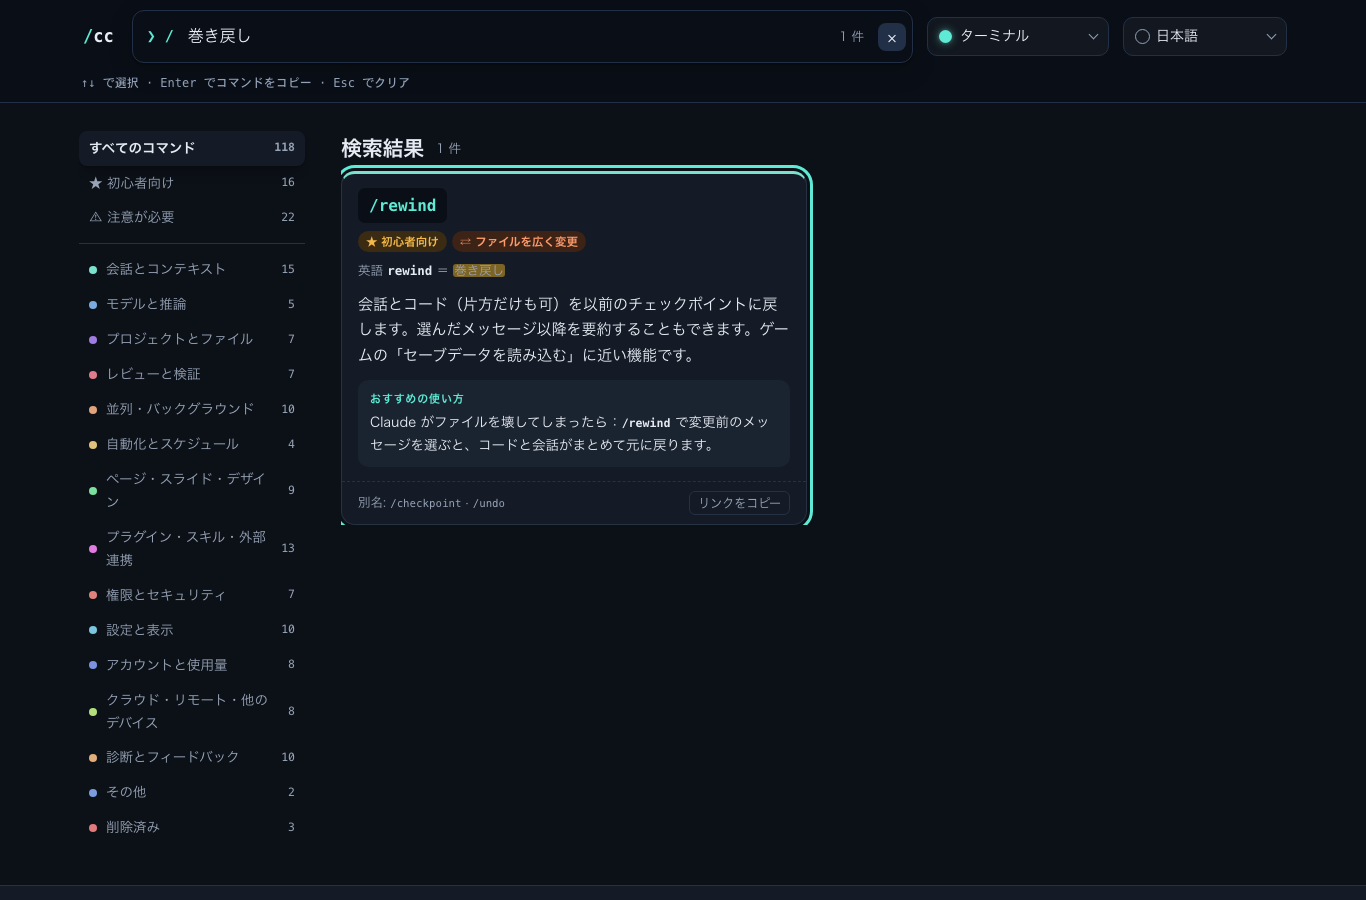
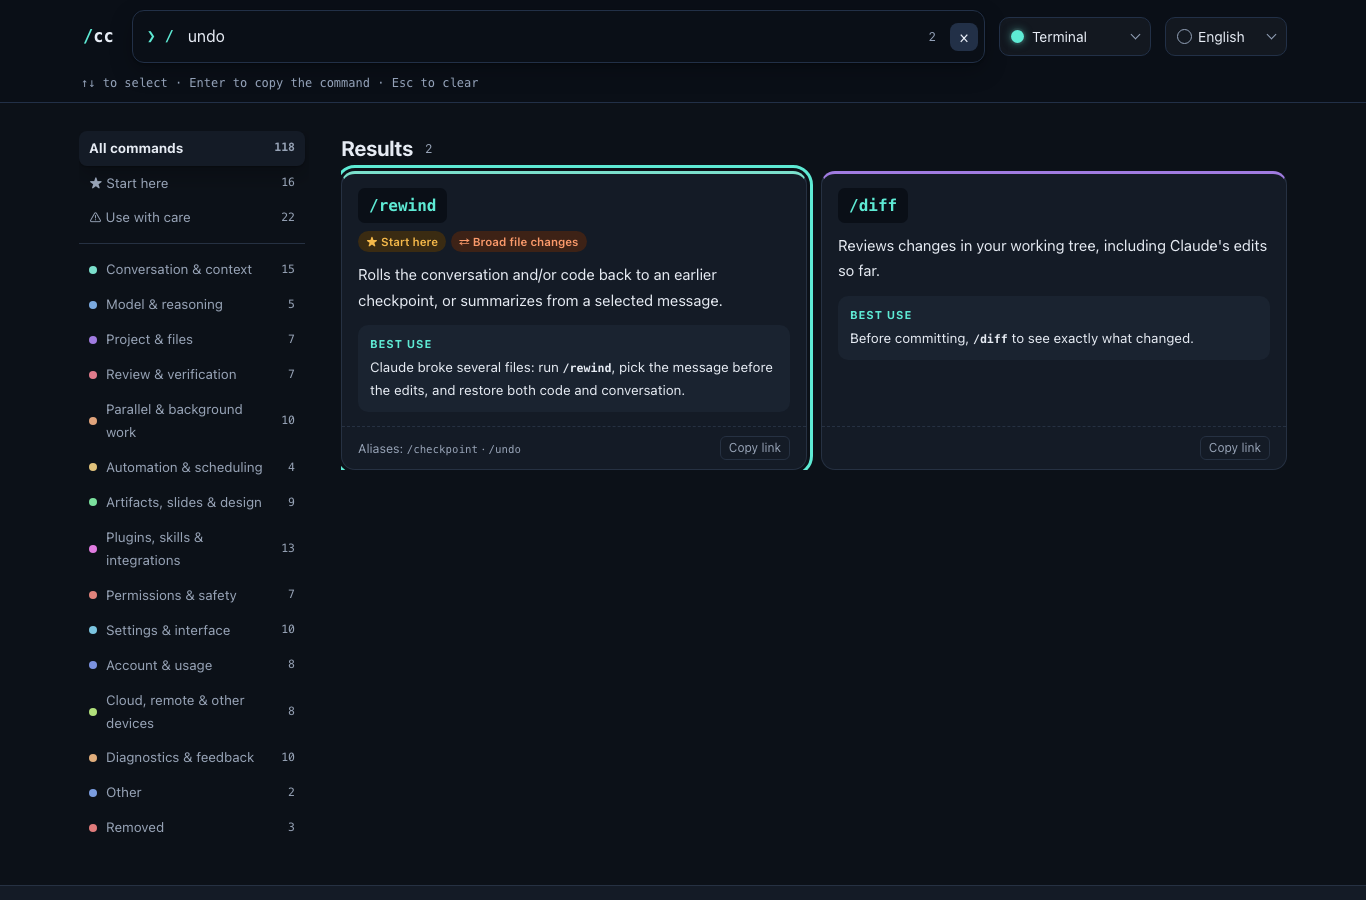
Add a live preview section with English screenshots
- ?theme= and ?lang= open the page in a given theme or language
  (validated; the remembered choice is used otherwise)
- README screenshots are English: default and Matrix themes side by
  side, each linking to the live page in that theme; the Matrix shot
  freezes a real rain frame
- Matrix rain fades out further from the headline

diff --git a/docs/index.html b/docs/index.html
@@ -2,7 +2,7 @@
 <html lang="en">
 <meta charset="utf-8">
 <meta name="viewport" content="width=device-width, initial-scale=1, viewport-fit=cover">
-<meta http-equiv="Content-Security-Policy" content="default-src 'none'; img-src 'self' data:; style-src 'sha256-wa4ndhqyFsvhTPBhABV0ZMXchThqM+fpSL2kvF4cgQc='; script-src 'sha256-7Mek3hGF+LeWd/slI4I7RhNVz67ZAEivcEj/lJPcTtQ=' 'sha256-vkdrupvUsdu28b80S5N36RX+rAbJ4L8iVFb8WBA/WFo='; base-uri 'none'; form-action 'none'">
+<meta http-equiv="Content-Security-Policy" content="default-src 'none'; img-src 'self' data:; style-src 'sha256-Lcz2R4DNVkiOH48GbXVjCDrKP1FXoVfJAyJnwvHvNeU='; script-src 'sha256-zTDMMkraTaLb462FBXh+FHGOZWeWPiTN15ggG/t3Yp8=' 'sha256-R2h1ZrjmBVAey/Nb9AkvsavFAxp/dXw3NjghyEOrn8A='; base-uri 'none'; form-action 'none'">
 <meta property="og:type" content="website">
 <meta property="og:title" content="Claude Code Commands · English / 日本語 / 简体中文 / 繁體中文 / 한국어 / Русский / Español">
 <meta property="og:description" content="Every Claude Code slash command explained in 7 languages: English / 日本語 / 简体中文 / 繁體中文 / 한국어 / Русский / Español. Unofficial.">
@@ -133,7 +133,7 @@
   --accent:#f5c46a; --accent-ink:#1d1406; --accent-soft:#2e2615;
   --hero:#070a12; --hero-2:#0f1524; --hero-line:#1f2940; --hero-ink:#eef1f7; --hero-muted:#97a1b7;
   --phos:#f5c46a; --phos-ink:#1d1406; --phos-soft:rgba(245,196,106,.12); --phos-glow:rgba(245,196,106,.12)}
-.rain{position:absolute;inset:0;width:100%;height:100%;opacity:.45;pointer-events:none;mask-image:linear-gradient(90deg,transparent,#000 35%,#000);-webkit-mask-image:linear-gradient(90deg,transparent,#000 35%,#000)}
+.rain{position:absolute;inset:0;width:100%;height:100%;opacity:.45;pointer-events:none;mask-image:linear-gradient(90deg,transparent 25%,#000 62%,#000);-webkit-mask-image:linear-gradient(90deg,transparent 25%,#000 62%,#000)}
 
 .h0{--h:168}.h1{--h:212}.h2{--h:262}.h3{--h:350}.h4{--h:24}.h5{--h:42}.h6{--h:140}.h7{--h:300}
 .h8{--h:4}.h9{--h:196}.h10{--h:226}.h11{--h:88}.h12{--h:30}.h13{--h:220}.h14{--h:0}
@@ -326,7 +326,7 @@ footer a{color:var(--accent);word-break:break-all}
 .noscript{background:var(--r-perms-bg);color:var(--r-perms);padding:12px 16px;border-radius:8px;margin-top:16px}
 @media (prefers-reduced-motion:reduce){html{scroll-behavior:auto}.caret{animation:none}.card,.scen,.toast{transition:none}.card:hover,.scen:hover{transform:none}}
 </style>
-<script>try{var s=localStorage.getItem("skin");if(/^(cyberpunk|matrix|midnight|graphite|indigo|ocean|ember|rose|mono|paper|frost)$/.test(s))document.documentElement.setAttribute("data-skin",s)}catch(e){}</script>
+<script>(function(){var ok=/^(cyberpunk|matrix|midnight|graphite|indigo|ocean|ember|rose|mono|paper|frost)$/,s=null;try{s=new URLSearchParams(location.search).get("theme")}catch(e){}if(!s||!(ok.test(s)||s==="terminal")){try{s=localStorage.getItem("skin")}catch(e){}}if(ok.test(s))document.documentElement.setAttribute("data-skin",s)})()</script>
 
 <div class="bar" id="bar">
   <div class="wrap bar-row">
@@ -429,6 +429,7 @@ const TARGET = HASH[2] && CMDS.find(c => slug(c) === HASH[2]);
 
 function pickLang(){
   if (HASH[1]) return HASH[1];
+  try { const q = new URLSearchParams(location.search).get("lang"); if (LANGS.includes(q)) return q; } catch(e) {}
   // A link's #en/#ja/#zh or the visitor's last choice wins; otherwise English.
   try { const s = localStorage.getItem("lang"); if (LANGS.includes(s)) return s; } catch(e) {}
   return "en";

diff --git a/site/template.html b/site/template.html
@@ -123,7 +123,7 @@
   --accent:#f5c46a; --accent-ink:#1d1406; --accent-soft:#2e2615;
   --hero:#070a12; --hero-2:#0f1524; --hero-line:#1f2940; --hero-ink:#eef1f7; --hero-muted:#97a1b7;
   --phos:#f5c46a; --phos-ink:#1d1406; --phos-soft:rgba(245,196,106,.12); --phos-glow:rgba(245,196,106,.12)}
-.rain{position:absolute;inset:0;width:100%;height:100%;opacity:.45;pointer-events:none;mask-image:linear-gradient(90deg,transparent,#000 35%,#000);-webkit-mask-image:linear-gradient(90deg,transparent,#000 35%,#000)}
+.rain{position:absolute;inset:0;width:100%;height:100%;opacity:.45;pointer-events:none;mask-image:linear-gradient(90deg,transparent 25%,#000 62%,#000);-webkit-mask-image:linear-gradient(90deg,transparent 25%,#000 62%,#000)}
 
 .h0{--h:168}.h1{--h:212}.h2{--h:262}.h3{--h:350}.h4{--h:24}.h5{--h:42}.h6{--h:140}.h7{--h:300}
 .h8{--h:4}.h9{--h:196}.h10{--h:226}.h11{--h:88}.h12{--h:30}.h13{--h:220}.h14{--h:0}
@@ -316,7 +316,7 @@ footer a{color:var(--accent);word-break:break-all}
 .noscript{background:var(--r-perms-bg);color:var(--r-perms);padding:12px 16px;border-radius:8px;margin-top:16px}
 @media (prefers-reduced-motion:reduce){html{scroll-behavior:auto}.caret{animation:none}.card,.scen,.toast{transition:none}.card:hover,.scen:hover{transform:none}}
 </style>
-<script>try{var s=localStorage.getItem("skin");if(/^(cyberpunk|matrix|midnight|graphite|indigo|ocean|ember|rose|mono|paper|frost)$/.test(s))document.documentElement.setAttribute("data-skin",s)}catch(e){}</script>
+<script>(function(){var ok=/^(cyberpunk|matrix|midnight|graphite|indigo|ocean|ember|rose|mono|paper|frost)$/,s=null;try{s=new URLSearchParams(location.search).get("theme")}catch(e){}if(!s||!(ok.test(s)||s==="terminal")){try{s=localStorage.getItem("skin")}catch(e){}}if(ok.test(s))document.documentElement.setAttribute("data-skin",s)})()</script>
 
 <div class="bar" id="bar">
   <div class="wrap bar-row">
@@ -419,6 +419,7 @@ const TARGET = HASH[2] && CMDS.find(c => slug(c) === HASH[2]);
 
 function pickLang(){
   if (HASH[1]) return HASH[1];
+  try { const q = new URLSearchParams(location.search).get("lang"); if (LANGS.includes(q)) return q; } catch(e) {}
   // A link's #en/#ja/#zh or the visitor's last choice wins; otherwise English.
   try { const s = localStorage.getItem("lang"); if (LANGS.includes(s)) return s; } catch(e) {}
   return "en";

diff --git a/scripts/build.py b/scripts/build.py
@@ -235,8 +235,11 @@ def readme(lang, cats, groups, scens, risk_list, disc):
     ])
     out = [f"# {t['title']}", "", LANG_LINKS, "", badges, "",
            f"> {t['intro']}", "",
+           f"## {t['preview']}", "", t["preview_note"], "",
            f"### [{t['web']} →]({META['site']})", "",
-           f"[![{t['title']}](docs/assets/preview-en.png)]({META['site']})", "",
+           f"| {t['theme_default']} | {t['theme_matrix']} |", "|---|---|",
+           f"| [![{t['theme_default']}](docs/assets/preview-en.png)]({META['site']}?theme=terminal) "
+           f"| [![{t['theme_matrix']}](docs/assets/preview-matrix.png)]({META['site']}?theme=matrix) |", "",
            "<p>"
            f'<img src="docs/assets/preview-search.png" alt="search" width="68%"> '
            f'<img src="docs/assets/preview-mobile.png" alt="mobile" width="28%">'

diff --git a/README.ru.md b/README.ru.md
@@ -6,9 +6,15 @@
 
 > Неофициальный справочник простым языком по всем слэш-командам Claude Code на **7 языках: английском, японском, упрощённом китайском, традиционном китайском, корейском, русском и испанском**. Он написан для тех, кому трудно читать официальную документацию на английском: у каждой команды есть значение английского слова, короткое объяснение и реалистичный пример, когда её использовать.
 
+## Живой предпросмотр
+
+Одна статическая страница, которую можно сразу попробовать: поиск, смена языка и темы, копирование команд. Ничего не нужно устанавливать.
+
 ### [Веб-версия с поиском →](https://futurevolab.github.io/claude-code-commands-i18n/)
 
-[![Команды Claude Code](docs/assets/preview-en.png)](https://futurevolab.github.io/claude-code-commands-i18n/)
+| Тема по умолчанию | Тема «Матрица» |
+|---|---|
+| [![Тема по умолчанию](docs/assets/preview-en.png)](https://futurevolab.github.io/claude-code-commands-i18n/?theme=terminal) | [![Тема «Матрица»](docs/assets/preview-matrix.png)](https://futurevolab.github.io/claude-code-commands-i18n/?theme=matrix) |
 
 <p><img src="docs/assets/preview-search.png" alt="search" width="68%"> <img src="docs/assets/preview-mobile.png" alt="mobile" width="28%"></p>
 

diff --git a/README.ja.md b/README.ja.md
@@ -6,9 +6,15 @@
 
 > Claude Code のスラッシュコマンドを**英語・日本語・簡体字中国語・繁体字中国語・韓国語・ロシア語・スペイン語の 7 言語**で説明する非公式のリファレンスです。英語の公式ドキュメントが読みにくい方のために、各コマンドの英語の意味、やさしい説明、「いつ使うと便利か」の具体例を載せています。
 
+## ライブプレビュー
+
+すぐに試せる静的ページです。検索、言語やテーマの切り替え、コマンドのコピーができます。インストールは不要です。
+
 ### [検索できる Web 版 →](https://futurevolab.github.io/claude-code-commands-i18n/)
 
-[![Claude Code コマンド一覧](docs/assets/preview-en.png)](https://futurevolab.github.io/claude-code-commands-i18n/)
+| 標準テーマ | マトリックステーマ |
+|---|---|
+| [![標準テーマ](docs/assets/preview-en.png)](https://futurevolab.github.io/claude-code-commands-i18n/?theme=terminal) | [![マトリックステーマ](docs/assets/preview-matrix.png)](https://futurevolab.github.io/claude-code-commands-i18n/?theme=matrix) |
 
 <p><img src="docs/assets/preview-search.png" alt="search" width="68%"> <img src="docs/assets/preview-mobile.png" alt="mobile" width="28%"></p>
 

diff --git a/README.ko.md b/README.ko.md
@@ -6,9 +6,15 @@
 
 > Claude Code의 모든 슬래시 명령을 **영어, 일본어, 중국어 간체, 중국어 번체, 한국어, 러시아어, 스페인어**로 쉽게 설명하는 비공식 참고 자료입니다. 영어 공식 문서를 읽기 어려운 분들을 위해 만들었습니다. 명령마다 짧은 설명과 언제 쓰면 좋은지 보여 주는 현실적인 예시가 있습니다.
 
+## 라이브 미리보기
+
+바로 써 볼 수 있는 정적 페이지입니다. 검색, 언어·테마 전환, 명령어 복사를 할 수 있으며 설치는 필요 없습니다.
+
 ### [검색 가능한 웹 버전 →](https://futurevolab.github.io/claude-code-commands-i18n/)
 
-[![Claude Code 명령어](docs/assets/preview-en.png)](https://futurevolab.github.io/claude-code-commands-i18n/)
+| 기본 테마 | 매트릭스 테마 |
+|---|---|
+| [![기본 테마](docs/assets/preview-en.png)](https://futurevolab.github.io/claude-code-commands-i18n/?theme=terminal) | [![매트릭스 테마](docs/assets/preview-matrix.png)](https://futurevolab.github.io/claude-code-commands-i18n/?theme=matrix) |
 
 <p><img src="docs/assets/preview-search.png" alt="search" width="68%"> <img src="docs/assets/preview-mobile.png" alt="mobile" width="28%"></p>
 

diff --git a/README.es.md b/README.es.md
@@ -6,9 +6,15 @@
 
 > Una referencia no oficial y en lenguaje sencillo de todos los comandos de barra de Claude Code, en **7 idiomas: inglés, japonés, chino simplificado, chino tradicional, coreano, ruso y español**. Está pensada para quienes encuentran difícil leer la documentación oficial en inglés: cada comando tiene el significado de su palabra en inglés, una explicación breve y un ejemplo realista de cuándo usarlo.
 
+## Vista previa en vivo
+
+Una página estática que puedes probar ya: busca, cambia de idioma y de tema y copia comandos. No hay nada que instalar.
+
 ### [Versión web con búsqueda →](https://futurevolab.github.io/claude-code-commands-i18n/)
 
-[![Comandos de Claude Code](docs/assets/preview-en.png)](https://futurevolab.github.io/claude-code-commands-i18n/)
+| Tema predeterminado | Tema Matrix |
+|---|---|
+| [![Tema predeterminado](docs/assets/preview-en.png)](https://futurevolab.github.io/claude-code-commands-i18n/?theme=terminal) | [![Tema Matrix](docs/assets/preview-matrix.png)](https://futurevolab.github.io/claude-code-commands-i18n/?theme=matrix) |
 
 <p><img src="docs/assets/preview-search.png" alt="search" width="68%"> <img src="docs/assets/preview-mobile.png" alt="mobile" width="28%"></p>
 

diff --git a/README.md b/README.md
@@ -6,9 +6,15 @@
 
 > An unofficial, plain-language reference to every Claude Code slash command, in **7 languages: English, Japanese, Simplified Chinese, Traditional Chinese, Korean, Russian and Spanish**. It is written for people who find the official English docs hard to read: each command gets a short explanation and a realistic example of when to use it.
 
+## Live preview
+
+One static page you can try right away: search, switch language and theme, copy commands. Nothing to install.
+
 ### [Searchable web version →](https://futurevolab.github.io/claude-code-commands-i18n/)
 
-[![Claude Code Commands](docs/assets/preview-en.png)](https://futurevolab.github.io/claude-code-commands-i18n/)
+| Default theme | Matrix theme |
+|---|---|
+| [![Default theme](docs/assets/preview-en.png)](https://futurevolab.github.io/claude-code-commands-i18n/?theme=terminal) | [![Matrix theme](docs/assets/preview-matrix.png)](https://futurevolab.github.io/claude-code-commands-i18n/?theme=matrix) |
 
 <p><img src="docs/assets/preview-search.png" alt="search" width="68%"> <img src="docs/assets/preview-mobile.png" alt="mobile" width="28%"></p>
 

diff --git a/README.zh-Hant.md b/README.zh-Hant.md
@@ -6,9 +6,15 @@
 
 > 非官方、用淺顯文字介紹 Claude Code 所有斜線指令的參考手冊，提供 **7 種語言：英文、日文、簡體中文、繁體中文、韓文、俄文、西班牙文**。專為讀英文官方文件感到吃力的人而寫：每個指令都有簡短說明，以及一個實際的使用時機範例。
 
+## 線上預覽
+
+一個可以直接開啟試用的靜態頁面：搜尋、切換語言和主題、複製指令，不需要安裝。
+
 ### [可搜尋的網頁版 →](https://futurevolab.github.io/claude-code-commands-i18n/)
 
-[![Claude Code 指令大全](docs/assets/preview-en.png)](https://futurevolab.github.io/claude-code-commands-i18n/)
+| 預設主題 | 駭客任務主題 |
+|---|---|
+| [![預設主題](docs/assets/preview-en.png)](https://futurevolab.github.io/claude-code-commands-i18n/?theme=terminal) | [![駭客任務主題](docs/assets/preview-matrix.png)](https://futurevolab.github.io/claude-code-commands-i18n/?theme=matrix) |
 
 <p><img src="docs/assets/preview-search.png" alt="search" width="68%"> <img src="docs/assets/preview-mobile.png" alt="mobile" width="28%"></p>
 

diff --git a/README.zh-CN.md b/README.zh-CN.md
@@ -6,9 +6,15 @@
 
 > 非官方的 Claude Code 斜杠命令速查手册，提供**英文、日文、简体中文、繁体中文、韩语、俄语、西班牙语**七种语言，专门写给读英文官方文档吃力的用户：每个命令都有英文原意、简单易懂的说明，以及一个真实的「什么时候用」的例子。
 
+## 在线预览
+
+一个可以直接打开试用的静态页面：搜索、切换语言和主题、复制命令，无需安装。
+
 ### [可搜索的网页版 →](https://futurevolab.github.io/claude-code-commands-i18n/)
 
-[![Claude Code 命令大全](docs/assets/preview-en.png)](https://futurevolab.github.io/claude-code-commands-i18n/)
+| 默认主题 | 黑客帝国主题 |
+|---|---|
+| [![默认主题](docs/assets/preview-en.png)](https://futurevolab.github.io/claude-code-commands-i18n/?theme=terminal) | [![黑客帝国主题](docs/assets/preview-matrix.png)](https://futurevolab.github.io/claude-code-commands-i18n/?theme=matrix) |
 
 <p><img src="docs/assets/preview-search.png" alt="search" width="68%"> <img src="docs/assets/preview-mobile.png" alt="mobile" width="28%"></p>
 

diff --git a/CHANGELOG.md b/CHANGELOG.md
@@ -2,6 +2,7 @@
 
 ## 1.1.0 — 2026-11-03
 
+- Live preview on GitHub Pages; `?theme=` and `?lang=` in the link open a theme or language directly. README screenshots are now in English, with the default and Matrix themes side by side.
 - Seven languages, in this order: English, Japanese, Simplified Chinese, Traditional Chinese, Korean, Russian, Spanish. Each has its own README; the page title and search follow the chosen language.
 - Languages, page strings and README strings now live in `data/`; `scripts/language_tool.py` checks and merges a new language with the same rules as the build.
 - Proofreading: clearer `/subtask` description in five languages; README intros list all languages; the language count on the page follows the data.

diff --git a/CONTRIBUTING.md b/CONTRIBUTING.md
@@ -44,6 +44,7 @@ Right-to-left languages (Arabic, Hebrew) also need layout work; open an issue fi
 - **Publish the site**: Settings → Pages → Deploy from a branch → `main` / `/docs`. The page is then live at the URL in the README.
 - **Enable private vulnerability reporting** (Settings → Code security), which `SECURITY.md` points reporters to.
 - **Refresh screenshots** after visual changes: `scripts/screenshots.sh` (needs Google Chrome).
+- **Preview links**: `?theme=<name>` and `?lang=<code>` open the page in a given theme or language, e.g. `?theme=matrix&lang=ja`.
 - **Release**: update `CHANGELOG.md` and `META.checked` in `scripts/build.py`, then tag `vX.Y.Z`.
 
 ## 日本語
